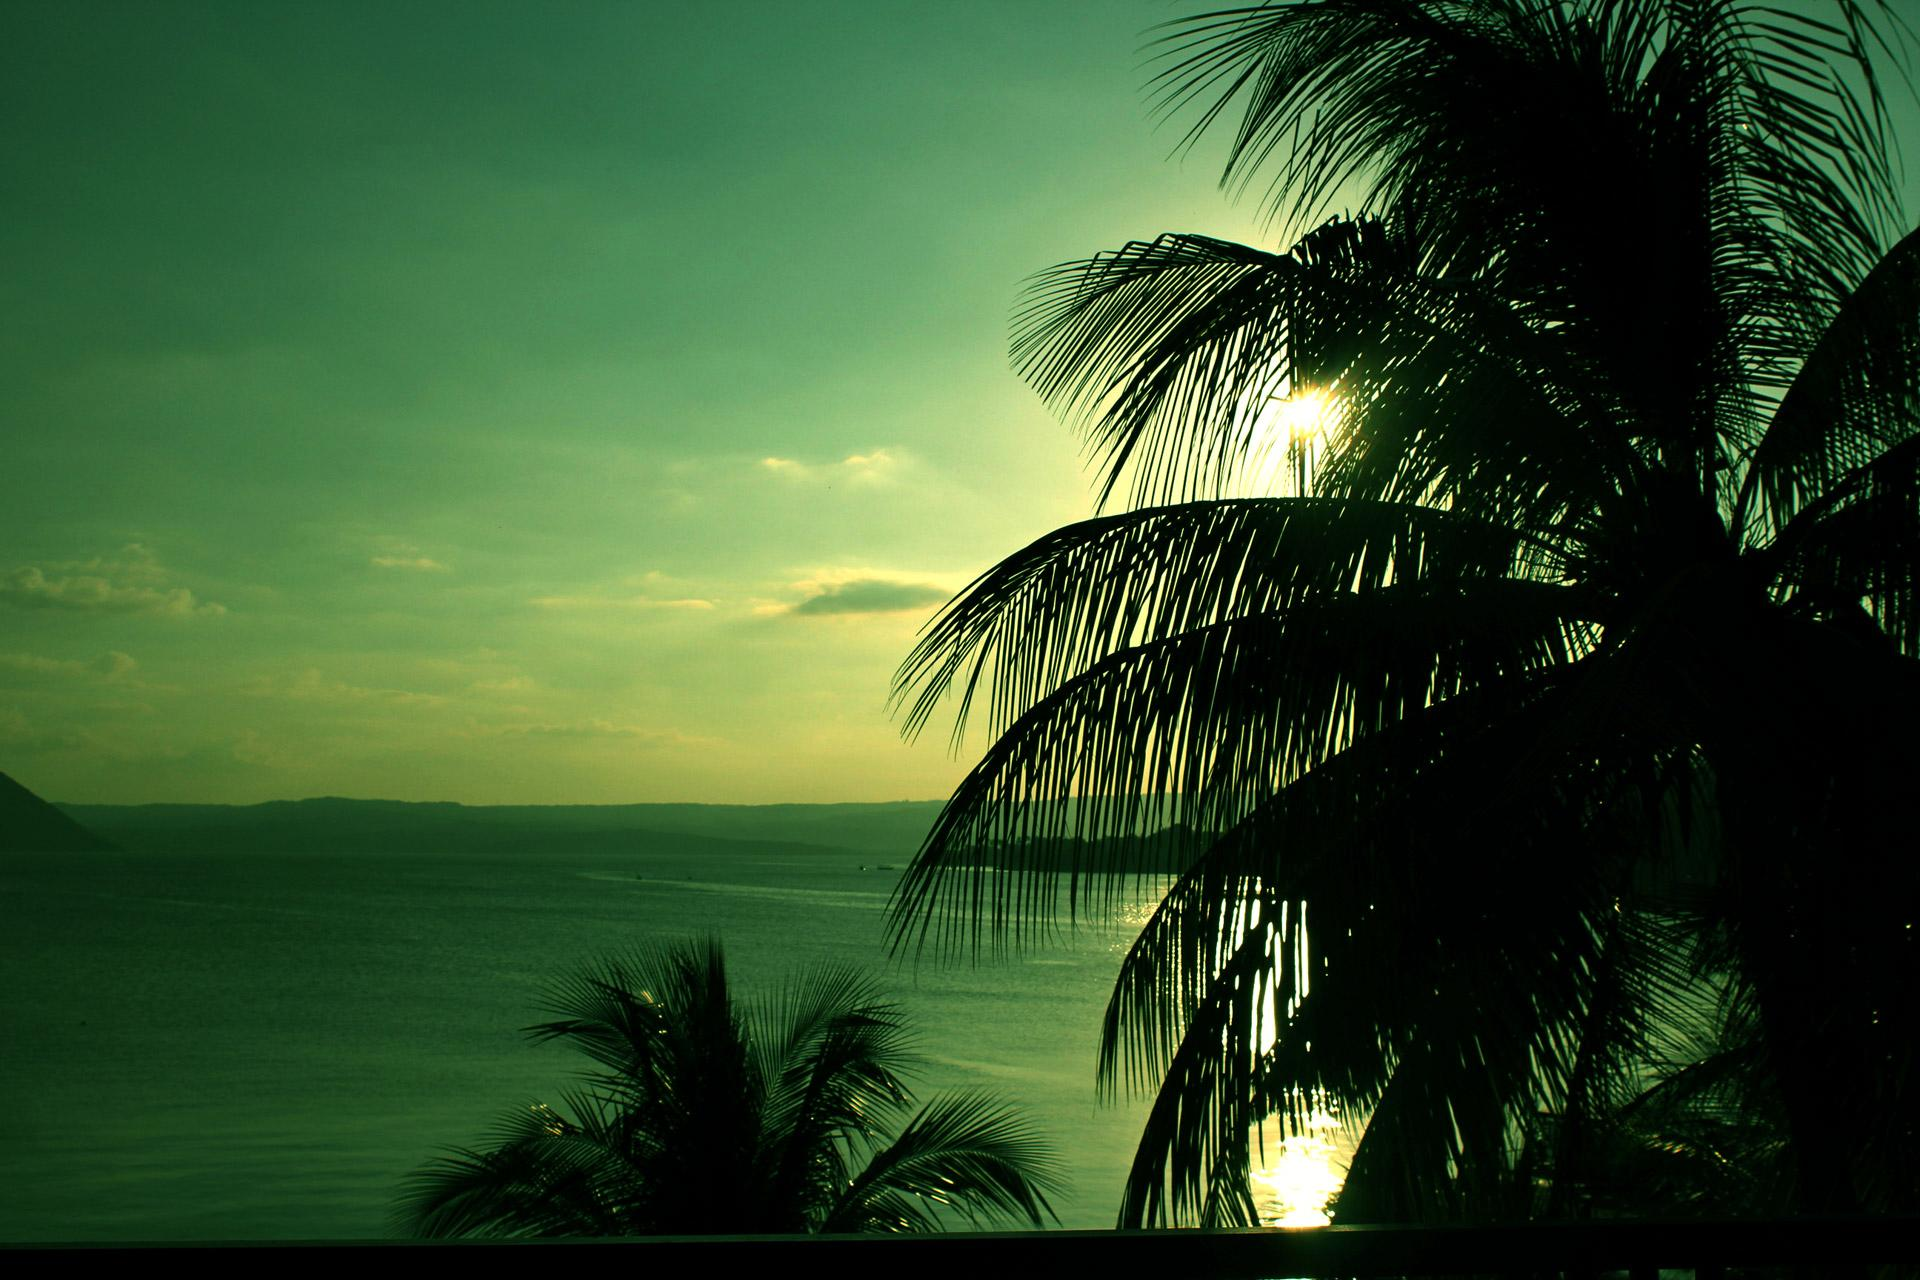
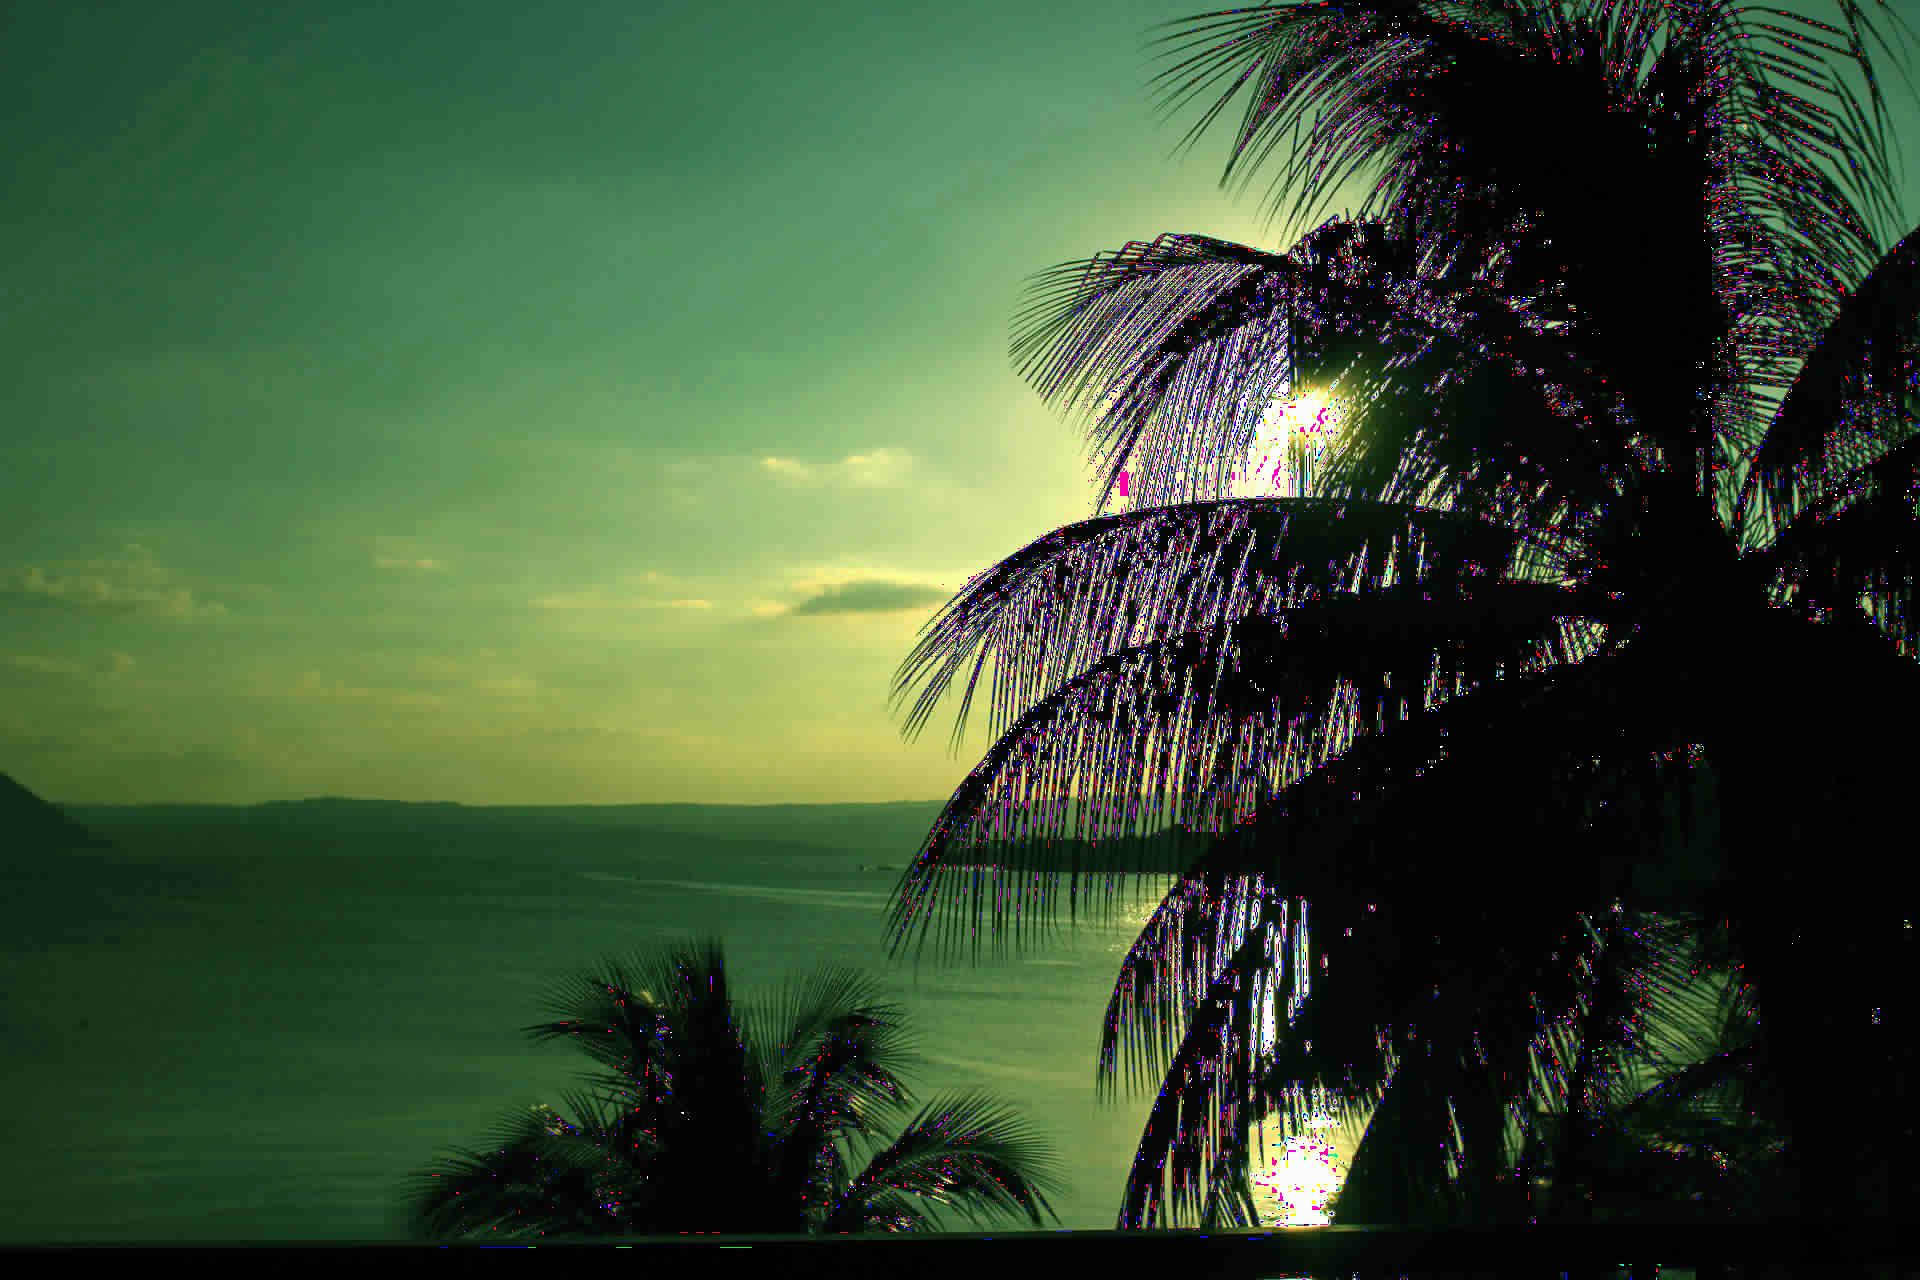
updated main function

diff --git a/CompJPEG/app_codes/main.py b/CompJPEG/app_codes/main.py
@@ -10,7 +10,7 @@ import cv2
 
 np.set_printoptions(suppress=True)
 
-rat = 5
+rat = 25
 
 filename = 'nature2.jpg'
 encode = Encoder(filename, rat)
@@ -28,7 +28,7 @@ paddedHeight = encode.paddedHeight
 paddedWidth = encode.paddedWidth
 
 
-rev = Reverse(encode.data, paddedHeight, paddedWidth, height, width, rat)
+rev = Reverse(encode.data.astype(np.int32), paddedHeight, paddedWidth, height, width, rat)
 # # print(rev.array[:, :, 0])
 array = rev.array
 array1 = rev.de_quantization()
